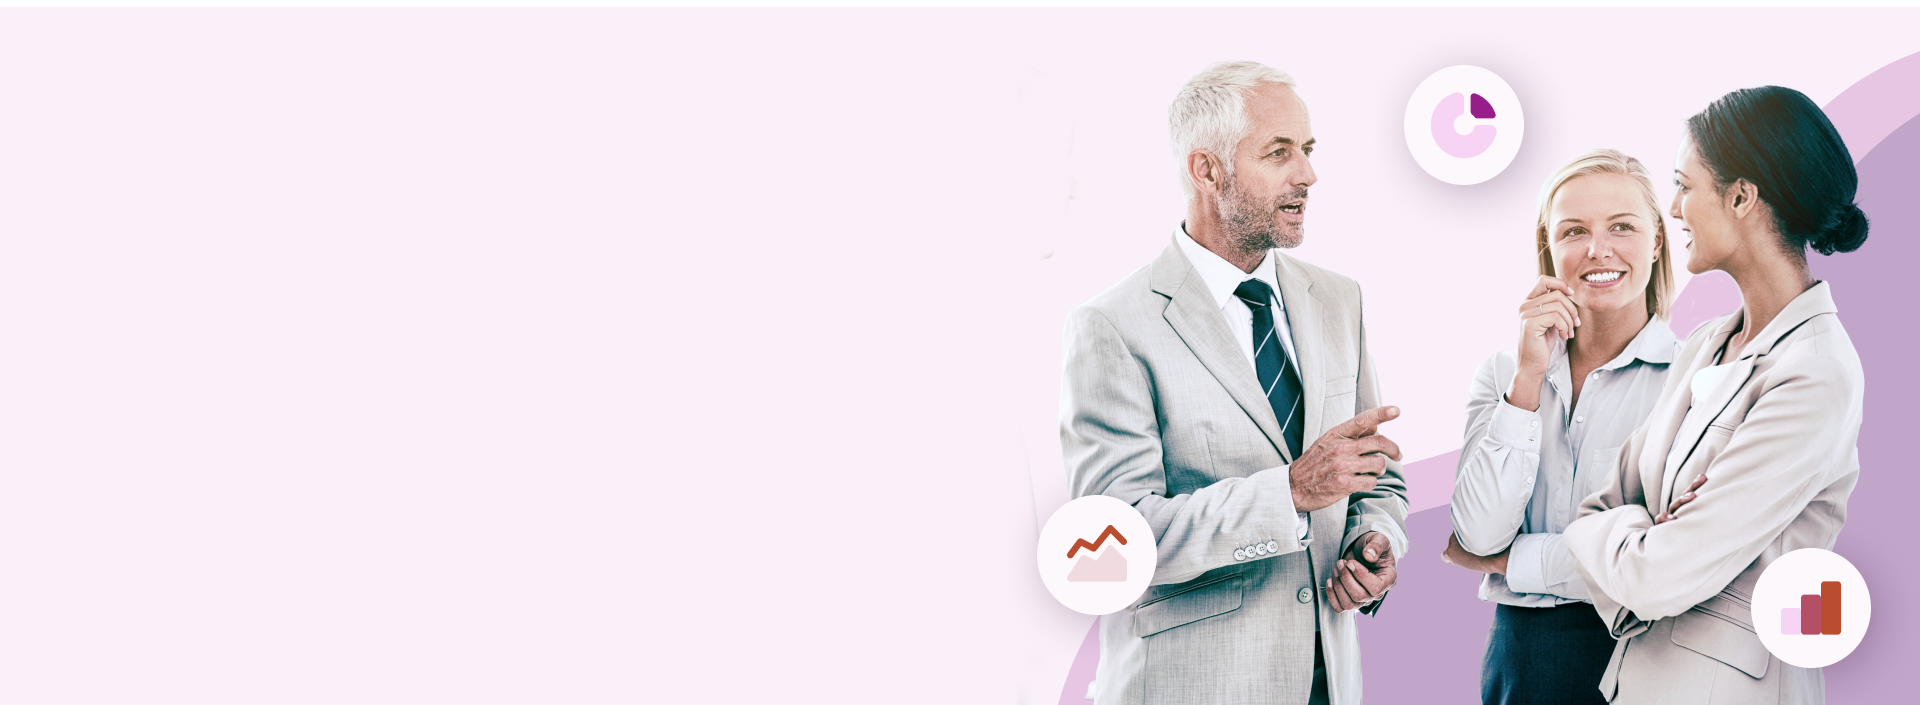
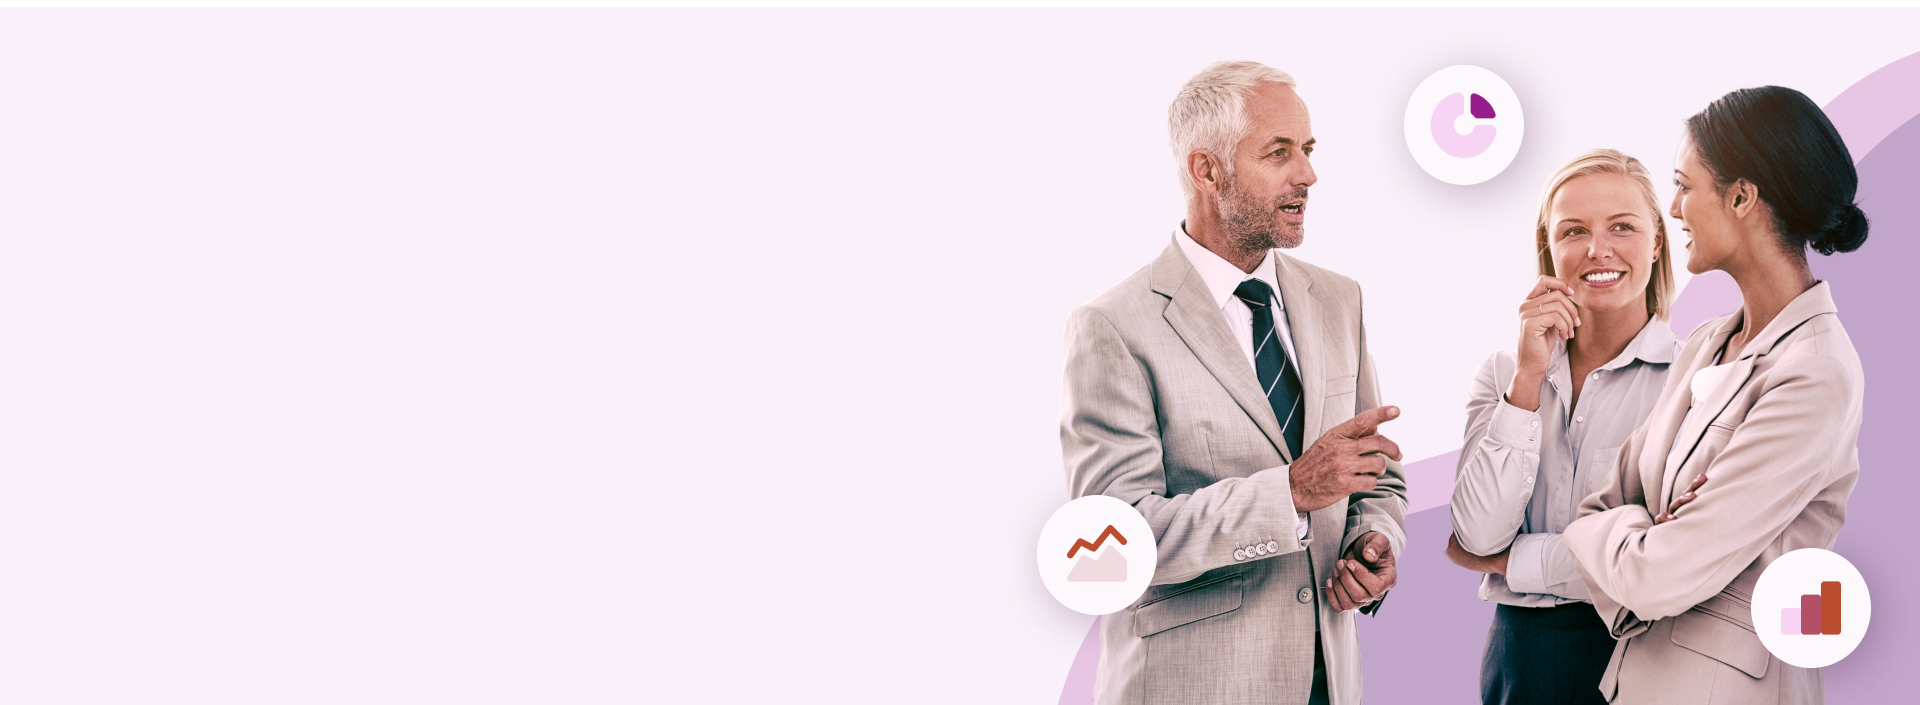
update dp component

Changed region(s): [[0.5312, 0.0936, 0.9688, 1.0]]

diff --git a/src/views/home/components/discover-potential.js b/src/views/home/components/discover-potential.js
@@ -1,6 +1,7 @@
 import React from "react"
 import { useTranslation } from "gatsby-plugin-react-i18next"
 import "../styles/discover-potential.css"
+import { StaticImage } from "gatsby-plugin-image"
 
 const DiscoverPotential = () => {
   const { t } = useTranslation()
@@ -9,10 +10,19 @@ const DiscoverPotential = () => {
     <>
       <div className="dp-container">
         <div className="container">
-          <div className="dp-text">
-            <h2 className="h2-style">{t`discover-potential.title`}</h2>
-            <p className="p-style">{t`discover-potential.p`}</p>
-            <p className="p-style">{t`discover-potential.p2`}</p>
+          <div className="dp-con">
+            <div className="dp-text">
+              <h2 className="h2-style">{t`discover-potential.title`}</h2>
+              <p className="p-style">{t`discover-potential.p`}</p>
+              <p className="p-style">{t`discover-potential.p2`}</p>
+            </div>
+            <StaticImage
+              className="dp-image"
+              src="../../../images/dp/dp-image.png"
+              alt="Top image"
+              placeholder="Top image"
+              loading="lazy"
+            />
           </div>
         </div>
       </div>

diff --git a/src/views/home/styles/discover-potential.css b/src/views/home/styles/discover-potential.css
@@ -1,16 +1,26 @@
 .dp-container {
   padding-top: 100px;
   padding-bottom: 100px;
-  overflow: hidden;
-  background-size: cover !important;
-  background-position: center;
-  width: 100%;
-  background: url(../../../images/dp/dp-background.png) no-repeat fixed 50% 0;
-  background-attachment: scroll;
+  background: var(--light-bg, #faf0f9);
+  position: relative;
+}
+
+.dp-container .dp-con {
+  display: flex;
+}
+
+.dp-container .dp-con .dp-image {
+  position: absolute;
+  bottom: 0;
+  right: 0;
+  width: 800px;
+  height: 600px;
+  flex-shrink: 0;
 }
 
 .dp-container .dp-text {
   width: 58%;
+  z-index: 2;
 }
 
 .dp-container h2 {

diff --git a/src/views/home/styles/organizers.css b/src/views/home/styles/organizers.css
@@ -2,6 +2,7 @@
   text-align: center;
   padding-top: 33px;
   padding-bottom: 28px;
+  background: var(--light, #fcf8fc);
 }
 
 .o-container h3 {
